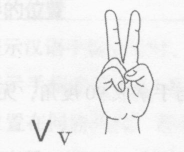
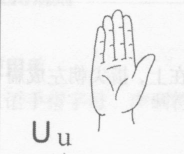
修复 p08 裁图错位：第 7 行为 4.2 节标题行应跳过而非首行；V 裁得、Z/ZH 对齐，U 参考图确认为四指并拢

diff --git a/tools/standard-figures/crop_figures.py b/tools/standard-figures/crop_figures.py
@@ -33,9 +33,9 @@ PAGE_ROWS = [
     # 印刷页 4：M-T
     {"file": "p07.png", "rules": [225, 391, 556, 721, 886, 1051, 1216, 1381, 1547],
      "letters": ["M", "N", "O", "P", "Q", "R", "S", "T"]},
-    # 印刷页 5：U-Z + 4.2 ZH；首行为续表表头
+    # 印刷页 5：U-Z；第 7 行为 "4.2 双字母指式" 节标题行；末行 ZH
     {"file": "p08.png", "rules": [221, 387, 551, 717, 882, 1047, 1212, 1358, 1535],
-     "letters": [None, "U", "V", "W", "X", "Y", "Z", "ZH"]},
+     "letters": ["U", "V", "W", "X", "Y", "Z", None, "ZH"]},
     # 印刷页 6：CH、SH、NG；4.3  ê、ü（4.4 声调为书空文字，无表行）
     {"file": "p09.png", "rules": [237, 421, 606, 790, 975, 1133, 1344],
      "letters": ["CH", "SH", "NG", None, "EH", "UE"]},
